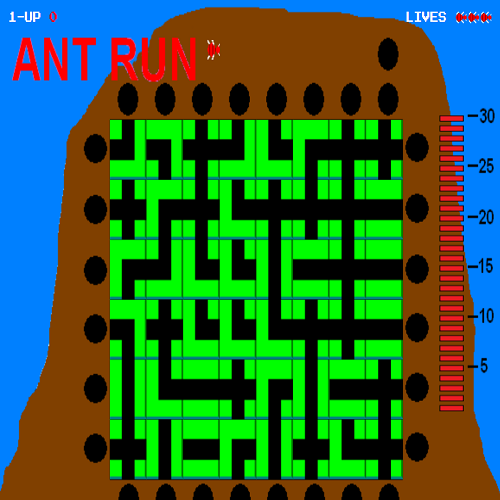
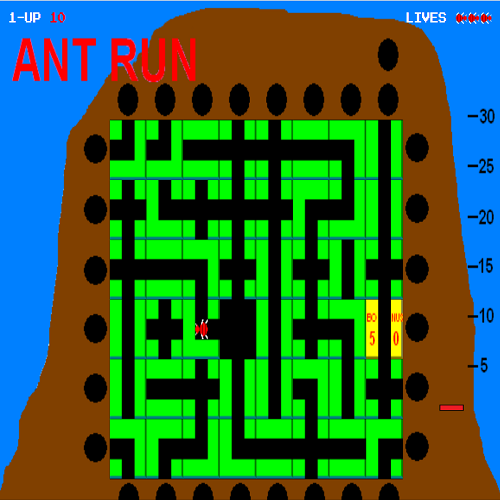
ant now moves around the board

diff --git a/src/classes/player.ts b/src/classes/player.ts
@@ -37,6 +37,8 @@ export default class Player implements IPlayer {
 	private imageIteration: boolean;
 
 	readonly SPACE_MOVED_SCORE: number = 5;
+	readonly NEXT_LEVEL_SCORE: number = 100;
+	readonly BONUS_SCORE: number = 50;
 	readonly INITIAL_PLAYER_LIVES: number = 3;
 	readonly INITIAL_PLAYER_X: number = 18;
 	readonly INITIAL_PLAYER_Y: number = 3;
@@ -71,26 +73,43 @@ export default class Player implements IPlayer {
 
 		this.setImage();
 	}
-
-	public setStart = (sprites: ISprite[]): void => {
-		const sprite = sprites.find((spr: ISprite) => spr.type === SpriteTypeEnum.START);
-		if (!sprite) throw new Error('Start block not found!');
-
-		this.setPlace(sprite);
-	}
-
+	
 	public spaceMovedScore = (): number => this.score += this.SPACE_MOVED_SCORE;
+	public nextLevelScore = (): number => this.score += this.NEXT_LEVEL_SCORE;
+	public playerBonus = (): number => this.score += this.BONUS_SCORE;
 
 	public looseLife = (): void => {
 		this.lives --;
 		if (this.lives < 1) this.isAlive = false;
 	}
 
+	public moveIntro = (sprites: ISprite[]): void => {
+		this.x ++;
+
+		if (this.x > 32) {
+			this.setStart(sprites);
+			this.onBoard = true;
+			return;
+		}
+
+		this.imageIteration = !this.imageIteration;
+		this.setImage();
+	}
+
+	public resetInto = (): void => {
+		this.x = this.INITIAL_PLAYER_X;
+		this.y = this.INITIAL_PLAYER_Y;
+		this.direction = DirectionEnum.RIGHT
+		this.onBoard = false;
+		this.setImage();
+	}
+
 	public move = (sprites: ISprite[], blockWidth: number, blockHeight: number): PlayerResultEnum => {
 		let x = this.x,
 			y = this.y,
 			blockX = this.blockX,
-			blockY = this.blockY;
+			blockY = this.blockY,
+			newBlockResult = PlayerResultEnum.NEW_BLOCK;
 
 		switch (this.direction) {
 			case DirectEnum.UP:
@@ -103,15 +122,30 @@ export default class Player implements IPlayer {
 				x--; blockX--; break;
 		}
 
-		if (blockX < 0) blockX = 2;
-		if (blockX > 2) blockX = 0;
-		if (blockY < 0) blockY = 2;
-		if (blockY > 2) blockY = 0;
+		let isNewBlock = false;
+		if (blockX < 0) {
+			blockX = 2; isNewBlock = true;
+		}
+		if (blockX > 2) {
+			blockX = 0; isNewBlock = true;
+		}
+		if (blockY < 0) {
+			blockY = 2; isNewBlock = true;
+		}
+		if (blockY > 2) {
+			blockY = 0; isNewBlock = true;
+		}
+
+		if (isNewBlock) newBlockResult = this.hideBlock(sprites, blockWidth, blockHeight);
 
 		const sprite = this.findSprite(sprites, blockWidth, blockHeight, x, y);
 		if (!sprite) {
 			this.goDownHole();
-			return PlayerResultEnum.SAFE;
+			return this.move(sprites, blockWidth, blockHeight);
+		}
+
+		if (!sprite.visable) {
+			return PlayerResultEnum.DEAD;
 		}
 
 		const path = sprite.paths[sprite.direction];
@@ -130,7 +164,15 @@ export default class Player implements IPlayer {
 		this.imageIteration = !this.imageIteration;
 		this.setImage();
 
-		return PlayerResultEnum.SAFE;
+		return isNewBlock ? newBlockResult : PlayerResultEnum.SAFE;
+	}
+
+	private hideBlock = (sprites: ISprite[], blockWidth: number, blockHeight: number): PlayerResultEnum => {
+		const sprite = this.findSprite(sprites, blockWidth, blockHeight, this.x, this.y);
+		if (!sprite) throw new Error('Cannot find block player was just on!');
+
+		sprite.visable = false;
+		return sprite.type === SpriteTypeEnum.BONUS ? PlayerResultEnum.BONUS_BLOCK : PlayerResultEnum.NEW_BLOCK
 	}
 
 	private updateDirection = (path: number[][], sprites: ISprite[], blockWidth: number, blockHeight: number): PlayerResultEnum => {
@@ -147,20 +189,20 @@ export default class Player implements IPlayer {
 	private goDownHole = () => {
 		switch (this.direction) {
 			case DirectionEnum.UP:
-				this.y = 24;
-				this.blockY = 2;
+				this.y = 25;
+				this.blockY = 3;
 				break;
 			case DirectionEnum.RIGHT:
-				this.x = 10;
-				this.blockX = 0;
+				this.x = 9;
+				this.blockX = -1;
 				break;
 			case DirectionEnum.DOWN:
-				this.y = 7;
-				this.blockY = 0;
+				this.y = 6;
+				this.blockY = -1;
 				break;
 			case DirectionEnum.LEFT:
-				this.x = 33;
-				this.blockX = 2;
+				this.x = 34;
+				this.blockX = 3;
 				break;
 		}
 	}
@@ -214,10 +256,16 @@ export default class Player implements IPlayer {
 		return DirectionEnum.DEAD;
 	}
 
+	private setStart = (sprites: ISprite[]): void => {
+		const sprite = sprites.find((spr: ISprite) => spr.type === SpriteTypeEnum.START);
+		if (!sprite) throw new Error('Start block not found!');
+
+		this.setPlace(sprite);
+	}
+
 	private tryUp = (path: number[][]) => path[this.blockY - 1][this.blockX] === 1;
 	private tryDown = (path: number[][]) => path[this.blockY + 1][this.blockX] === 1;
 	private tryRight = (path: number[][]) => path[this.blockY][this.blockX + 1] === 1;
 	private tryLeft = (path: number[][]) => path[this.blockY][this.blockX - 1] === 1;
-
 	private setImage = (): string => this.image = this.playerImages[this.direction][this.imageIteration ? 0 : 1];
 }

diff --git a/src/classes/game.ts b/src/classes/game.ts
@@ -20,9 +20,11 @@ export default class Game implements IGame {
 	public isGameInPlay: boolean;
 	public timerInterval: number;
 
-	readonly DEFAULT_TIMER_INTERVAL: number = 1000;
+	readonly DEFAULT_TIMER_INTERVAL: number = 800;
+	readonly DEFAULT_TIMER_DECREMENT: number = 50;
+	readonly DEFAULT_TIMER_MIN: number = 50;
 	
-	readonly MAX_TIME: number = 30;
+	readonly MAX_BLOCKS: number = 30;
 	
 	constructor(config: IAntRunProps) {
 		this.player = new Player(config);
@@ -45,29 +47,53 @@ export default class Game implements IGame {
 				this.moveBlock(sprite); break;
 			case PlayerResultEnum.DEAD:
 				this.looseLife(); break;
+			case PlayerResultEnum.NEW_BLOCK:
+				this.updateTime(); break;
+			case PlayerResultEnum.BONUS_BLOCK:
+				this.playerBonus(); this.updateTime(); break;
 		}
 	}
 
 	public handleTimer = (): void => {
-		// this.iteration ++;
-		// this.time.show(this.iteration, this.sprites);
-		this.handleInput(this.player.move(this.sprites, 3, 3));
+		if (this.player.onBoard) {
+			this.handleInput(this.player.move(this.sprites, 3, 3));
+		} else {
+			this.player.moveIntro(this.sprites);
+		}
 	}
 
-	private moveBlock = (sprite?: ISprite): void | null => sprite ? sprite.move() : null
+	private updateTime = (): void => {
+		this.iteration ++;
+		this.time.show(this.iteration, this.sprites);
+
+		if (this.iteration >= this.MAX_BLOCKS) this.nextLevel();
+	}
+
+	private moveBlock = (sprite?: ISprite): void | null => sprite ? sprite.move(this.player.x, this.player.y) : null
 
 	private reset = (): void => {
+		this.iteration = 0;
 		this.sprites = this.board.setBoard([]);
 		this.time.setTime(this.sprites);
-		this.player.setStart(this.sprites);
+		this.player.resetInto();
 	}
 
 	private playerSafe = (): number => this.player.spaceMovedScore();
 
-	private looseLife = () => {
+	private looseLife = (): void => {
 		this.player.looseLife();
 		this.reset();
 		
 		if (!this.player.isAlive) this.isGameInPlay = false;
 	}
+
+	private nextLevel = (): void => {
+		this.level ++;
+		this.timerInterval -= this.DEFAULT_TIMER_DECREMENT;
+		if (this.timerInterval < this.DEFAULT_TIMER_MIN) this.timerInterval = this.DEFAULT_TIMER_MIN;
+		this.player.nextLevelScore();
+		this.reset();
+	}
+
+	private playerBonus = (): number => this.player.playerBonus();
 }

diff --git a/src/classes/board.ts b/src/classes/board.ts
@@ -50,13 +50,12 @@ export default class Board implements IBoard {
 	}
 
 	private setBonus = (sprites: ISprite[]): void => {
-		if (Math.floor(Math.random() * 100) < 80) return;
-
 		const x = this.xVal();
 		const y = this.yVal();
-		const sprite = sprites.find((spr: ISprite) => spr.key === `sprite-${ x }-${ y }`);
+		const sprite = sprites.find((spr: ISprite) => spr.key === `sprite-${ x }-${ y }` && spr.type !== SpriteTypeEnum.START);
 
-		if (!sprite) throw new Error('Bonus sprite not found!');
+		if (!sprite) return;
+		sprite.setType(SpriteTypeEnum.BONUS);
 		sprite.setImageType(ImageEnum.BONUS);
 		sprite.setPath();
 		sprite.setImage();

diff --git a/src/classes/sprite.ts b/src/classes/sprite.ts
@@ -67,8 +67,9 @@ export default class Sprite implements ISprite {
 		this.setImage();
 	}
 
-	public move = (): void => {
+	public move = (playerX: number, playerY: number): void => {
 		if (!this.visable) return;
+		if (this.playerOnSprite(playerX, playerY)) return;
 
 		switch (this.direction) {
 			case DirectionEnum.UP:
@@ -93,4 +94,10 @@ export default class Sprite implements ISprite {
 
 		this.paths = data.paths;
 	}
+
+	private playerOnSprite = (playerX: number , playerY: number) =>
+		playerX >= this.x &&
+		playerX < this.x + this.width &&
+		playerY >= this.y &&
+		playerY < this.y + this.height;
 }

diff --git a/src/classes/interfaces/player.ts b/src/classes/interfaces/player.ts
@@ -19,8 +19,11 @@ export default interface IPlayer {
 	image: string;
 	isAlive: boolean;
 	onBoard: boolean;
+	moveIntro(sprites: ISprite[]): void;
 	spaceMovedScore(): number;
+	nextLevelScore(): number;
 	looseLife(): void;
+	resetInto(): void;
+	playerBonus(): number;
 	move(sprites: ISprite[], blockWidth: number, blockHeight: number): PlayerResultEnum;
-	setStart(sprites: ISprite[]): void;
 }

diff --git a/src/classes/tests/player.test.ts b/src/classes/tests/player.test.ts
@@ -12,8 +12,6 @@ describe('Player', () => {
 		expect(player.y).toEqual(3);
 		expect(player.width).toEqual(1);
 		expect(player.height).toEqual(1);
-		expect(player.initialPlayerX).toEqual(18);
-		expect(player.initialPlayerY).toEqual(3);
 		expect(player.zIndex).toEqual(6000);
 		expect(player.direction).toEqual(DirectionEnum.RIGHT);
 		expect(player.score).toEqual(0);

diff --git a/src/classes/interfaces/sprite.ts b/src/classes/interfaces/sprite.ts
@@ -14,7 +14,7 @@ export default interface ISprite {
 	image: string;
 	type: SpriteTypeEnum;
 	paths: number[][][];
-	move(): void;
+	move(playerX: number, playerY: number): void;
 	setImageType(type: ImageEnum): ImageEnum;
 	setType(type: SpriteTypeEnum): SpriteTypeEnum;
 	setImage(): string;

diff --git a/src/classes/enums/player-result-enum.ts b/src/classes/enums/player-result-enum.ts
@@ -3,6 +3,8 @@ enum PlayerResultEnum {
 	MOVE = 1,
 	TIME_OVER = 2,
 	DEAD = 3,
+	NEW_BLOCK = 4,
+	BONUS_BLOCK = 5,
 	ENTER = 13,
 	SPACE_BAR = 32,
 	ARROW_RIGHT = 39,

diff --git a/src/classes/enums/sprite-type-enum.ts b/src/classes/enums/sprite-type-enum.ts
@@ -1,6 +1,7 @@
 enum StriteTypeEnum {
 	BLOCK = 0,
 	START = 1,
+	BONUS = 2,
 	TIME = 100,
 }
 
